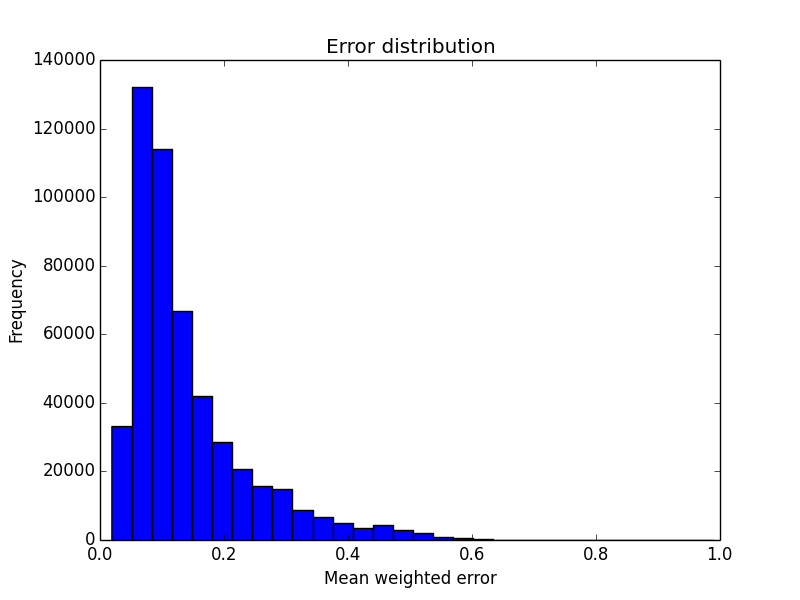
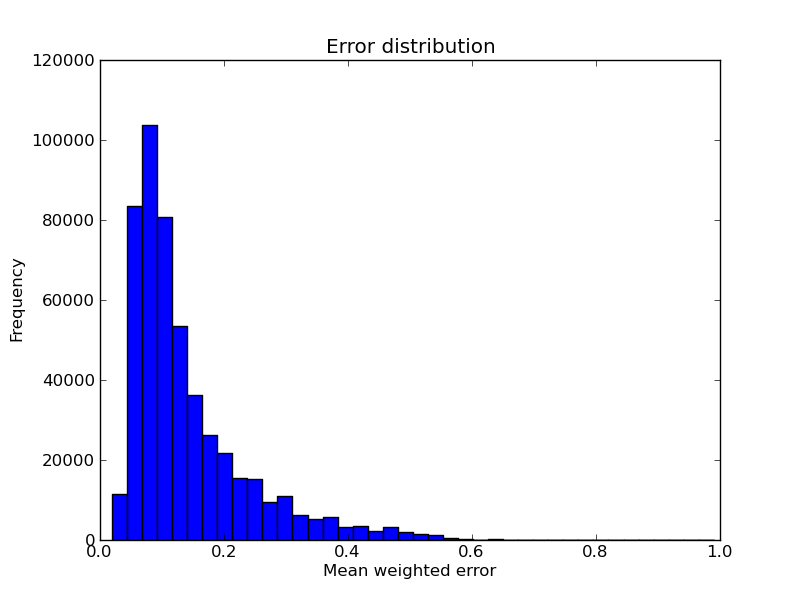
pictures, analysis and plotting code

diff --git a/qso_stars_analysis.py b/qso_stars_analysis.py
@@ -1,3 +1,6 @@
+# Analysis module : pulls all the output files together and creates the input 
+# for the plotting module 
+# 
 # A combined program: merger of qso_an, and stars_an  
 # to analyse either CRTS quasars, preprocessed by qso_var , 
 # or standard stars, preprocessed by str_var
@@ -18,15 +21,24 @@
 import numpy as np
 import matplotlib.pyplot as plt 
 
-# set the two parameters below to be the working directories where files are 
-# located
 
-directory='stars_try/'
-dir_name='stars_try'
+# list of several directories I used : 
+
+dirs=['QSO','QSO_try', 'stars/0','stars_try']
+
+# user input : set the two parameters below to be the working directories 
+# where files are  located by choosing appropriate number, or add another dir 
+# to the list above 
+
+directory=dirs[0]+'/'
+dir_name=dirs[0]
 names=np.loadtxt(directory+'out.list',dtype=str)
 
 # make an array for storing total timespan of obs per object, 
 # as well as the total number of nights per object
+nobs_object = np.zeros_like(names).astype(float) # store how many nights per object
+timespan_obs = np.zeros_like(names).astype(float) # store what was the total 
+					# timespan of observations per object
 
 # check how many total rows we have to create lists of appropriate size:
 cond_multline=np.empty_like(names,dtype=bool)
@@ -34,16 +46,26 @@ n_rows = 0
 for i in range(len(names)):
     address=directory+names[i]
     data=np.loadtxt(address)
-    if len(data) != data.size :
+       
+    if len(data) != data.size :  # handling  multline data 
         n_rows += len(data)
         #print len(data)
         cond_multline[i] = True 
-    else:
+        mjdrange = data[-1,0]-data[0,0]  # gives number of days between first and 
+	# np.min(data[:,0]) - np.max(data[:,0])	  # last observation
+        # same as the function in  the line above - we can assume that rows are 
+        # chronological 
+        timespan_obs[i] = mjdrange
+        nobs_object[i]= len(data)
+    else:    # handling singleline data 
         n_rows += 1
         #print '1'
         cond_multline[i] = False 
+        timespan_obs[i] = 0
+        nobs_object[i]= 1
 
 print 'We have ', n_rows, 'rows total, in ', len(names), 'out files' 
+
 
 # make appropriate arrays 
 
@@ -76,74 +98,24 @@ for obj in names[np.logical_not(cond_multline)] :
     N = np.append(N,data[3])
     chisq = np.append(chisq,data[1])
 
-# plot the distributions
-# http://bespokeblog.wordpress.com/2011/07/11/basic-data-plotting-with-matplotlib-part-3-histograms/
 
-# mean error 
-plt.clf()
-plt.hist(err,bins=30)
-plt.title('Error distribution')
-plt.xlabel('Mean weighted error')
-plt.ylabel('Frequency')
-fname=dir_name+'_mean_err.png'
-plt.savefig(fname)
+file1 = dir_name + '_all-rows_mjd_mag_err_N_chisq.npy'
+allrows = [mjd,mag,err,N,chisq]
+np.save(file1,allrows)
+print 'I saved to ', file1, 'all data for all objects : obs_date, mean mag,',\
+' error, N, chi-squared, with ', len(mjd), 'rows' 
 
+file2 = dir_name + '_name_timespan_nobs.npy'
+stats = [names,timespan_obs, nobs_object]
+np.save(file2,stats)
+print 'I saved to ', file2, ' statistics for each object : name, total ',\
+'timespan of observations, and total number of averaged observations, with ',\
+len(names), 'rows'
 
-# number of observations
-
-plt.clf()
-plt.hist(N,bins=30)
-plt.title('Distribution of the number of observations per night per object')
-plt.xlabel('Number of observations')
-plt.ylabel('Frequency')
-fname=dir_name+'_N_obs.png'
-plt.savefig(fname)
-
-# average magnitude 
-
-plt.clf()
-plt.hist(mag,bins=30)
-plt.title('Average magnitude distribution')
-plt.xlabel('Magnitude')
-plt.ylabel('Frequency')
-fname=dir_name+'_mag.png'
-plt.savefig(fname)
-
-# error vs  average magnitude  as a colour- coded histogram
-# http://oceanpython.org/2013/02/25/2d-histogram/
-print 'plotting error vs average mag colour-coded histogram'
-fig1 = plt.figure()
-plt.plot(err,mag,'.r')
-plt.xlabel('Error')
-plt.ylabel('Magnitude')
-nbins =200
-H, xedges,yedges = np.histogram2d(err,mag,bins=nbins)
-H = np.rot90(H)
-H = np.flipud(H)
-Hmasked = np.ma.masked_where(H==0,H)
-fig2 = plt.figure()
-plt.pcolormesh(xedges, yedges, Hmasked)
-plt.xlabel('Error')
-plt.ylabel('Magnitude')
-cbar = plt.colorbar()
-cbar.ax.set_ylabel('Counts')
-fname=dir_name+'_mag_err.png'
-plt.savefig(fname)
-
-
-# chi-sq cumulative
-N_obs=np.unique(N)
-print 'Plotting chi-sq cumulative'
-for number in N_obs :
-    plt.clf()
-    plt.hist(chisq[N==number],bins=100, normed=True, cumulative=True)
-    plt.title('Chi-sq cumulative distribution')
-    plt.xlabel('chi-squared')
-    plt.ylabel('Probability')
-    fname=dir_name+'_chisq_cum_N_'+str(number)+'.png'
-    plt.savefig(fname)
-
-
-
+#
+#
+# plotting is done with qso_stars_plot.py  
+#
+#
 
 

diff --git a/qso_stars_plot.py b/qso_stars_plot.py
@@ -1,0 +1,146 @@
+# Plotting module - takes the output of the analysis module, and plots whatever
+# is needed
+#
+# A program to read in the output of   qso_stars_analysis.py  , 
+# and plot the relevant global properties of the sample
+
+import numpy as np
+import matplotlib.pyplot as plt
+
+# Files that contain diagnostics are in diag.list  file, in the working directory
+# but because of their naming scheme, if the user selects the working directory, 
+# it will find the relevant .npy files automatically 
+
+dirs=['QSO','QSO_try', 'stars/0','stars_try']
+directory=dirs[2]+'/'
+dir_name=dirs[2]
+
+# always refer to qso_stars_analysis.py  for the names of the two diagnostic files
+
+file1 = dir_name + '_all-rows_mjd_mag_err_N_chisq.npy'
+file2 = dir_name + '_name_timespan_nobs.npy'
+
+allrows=np.load(file1)
+mjd= allrows[0]
+mag= allrows[1]
+err=allrows[2]
+N = allrows[3]
+chisq=allrows[4]
+
+stats = np.load(file2) 
+names=stats[0]
+timespan_obs=stats[1]
+timespan_obs=timespan_obs.astype(np.float)
+nobs_object=stats[2]
+nobs_object=nobs_object.astype(np.float)
+
+# plot the distributions
+# http://bespokeblog.wordpress.com/2011/07/11/basic-data-plotting-with-matplotlib-part-3-histograms/
+
+# mean error 
+plt.clf()
+plt.hist(err,bins=40)
+plt.title('Error distribution')
+plt.xlabel('Mean weighted error')
+plt.ylabel('Frequency')
+fname=dir_name+'_mean_err.png'
+plt.savefig(fname)
+
+
+# number of observations
+
+plt.clf()
+plt.hist(N,bins=30)
+plt.title('Distribution of the number of observations per night per object')
+plt.xlabel('Number of observations')
+plt.ylabel('Frequency')
+fname=dir_name+'_N_obs.png'
+plt.savefig(fname)
+
+# average magnitude 
+
+plt.clf()
+plt.hist(mag,bins=30)
+plt.title('Average magnitude distribution')
+plt.xlabel('Magnitude')
+plt.ylabel('Frequency')
+fname=dir_name+'_mag.png'
+plt.savefig(fname)
+
+# error vs  average magnitude  as a colour- coded histogram
+# http://oceanpython.org/2013/02/25/2d-histogram/
+print 'plotting error vs average mag colour-coded histogram'
+fig1 = plt.figure()
+plt.plot(err,mag,'.r')
+plt.xlabel('Error')
+plt.ylabel('Magnitude')
+nbins =100
+H, xedges,yedges = np.histogram2d(err,mag,bins=nbins)
+H = np.rot90(H)
+H = np.flipud(H)
+Hmasked = np.ma.masked_where(H==0,H)
+fig2 = plt.figure()
+plt.pcolormesh(xedges, yedges, Hmasked)
+plt.xlabel('Error')
+plt.ylabel('Magnitude')
+cbar = plt.colorbar()
+cbar.ax.set_ylabel('Counts')
+fname=dir_name+'_mag_err.png'
+plt.savefig(fname)
+
+
+# chi-sq cumulative log-log
+N_obs=np.unique(N)
+print 'Plotting chi-sq cumulative'
+for number in N_obs :
+    plt.clf()
+    zeromask = (chisq[N==number] != 0.0)  # avoid values of zero
+    logchisq = np.log10(chisq[N==number][zeromask])
+    plt.hist(logchisq,bins=200,  log=True, normed=True, cumulative=True)
+    xmax = np.max(logchisq)
+    plt.xlim((0,0.5*xmax))
+    plt.title('Chi-sq cumulative distribution')
+    plt.xlabel('log(chi-squared)')
+    plt.ylabel('Probability')
+    fname=dir_name+'_chisq_cum_N_loglog'+str(number)+'.png'
+    plt.savefig(fname)
+
+# chi-sq cumulative lin-log 
+N_obs=np.unique(N)
+print 'Plotting chi-sq cumulative'
+for number in N_obs :
+    plt.clf()
+    zeromask = (chisq[N==number] != 0.0)  # avoid values of zero
+    logchisq = np.log10(chisq[N==number][zeromask])
+    plt.hist(logchisq,bins=200, normed=True, cumulative=True)
+    xmax = np.max(logchisq)
+    plt.xlim((0,0.5*xmax))
+    plt.title('Chi-sq cumulative distribution')
+    plt.xlabel('log(chi-squared)')
+    plt.ylabel('Probability')
+    fname=dir_name+'_chisq_cum_N_linlog'+str(number)+'.png'
+    plt.savefig(fname)
+
+
+# number of nights per quasar vs timespan of obs as a colour- coded histogram
+# http://oceanpython.org/2013/02/25/2d-histogram/
+print 'plotting number of nights vs timespan of obs per quasar as',\
+' a  colour-coded histogram'
+fig1 = plt.figure()
+plt.plot(timespan_obs,nobs_object,'.r')
+plt.xlabel('Timespan[days]')
+plt.ylabel('Number of observations')
+nbins =200.0
+H, xedges,yedges = np.histogram2d(timespan_obs,nobs_object,bins=nbins)
+H = np.rot90(H)
+H = np.flipud(H)
+Hmasked = np.ma.masked_where(H==0,H)
+fig2 = plt.figure()
+plt.pcolormesh(xedges, yedges, Hmasked)
+plt.xlabel('Timespan[days]')
+plt.ylabel('Number of observations')
+cbar = plt.colorbar()
+cbar.ax.set_ylabel('Counts')
+fname=dir_name+'_N_t-obs200.png'
+plt.savefig(fname)
+
